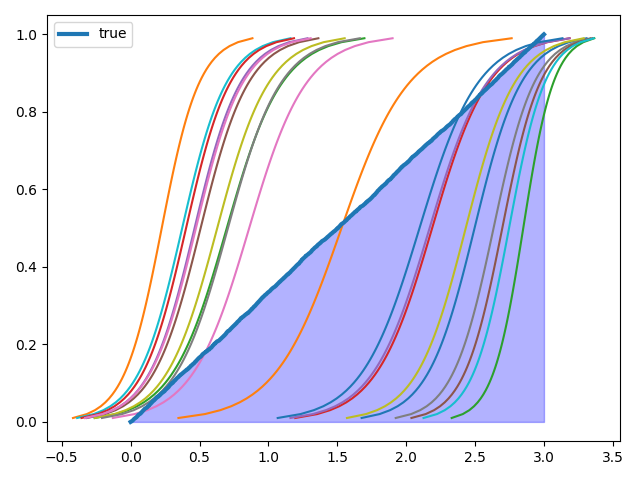
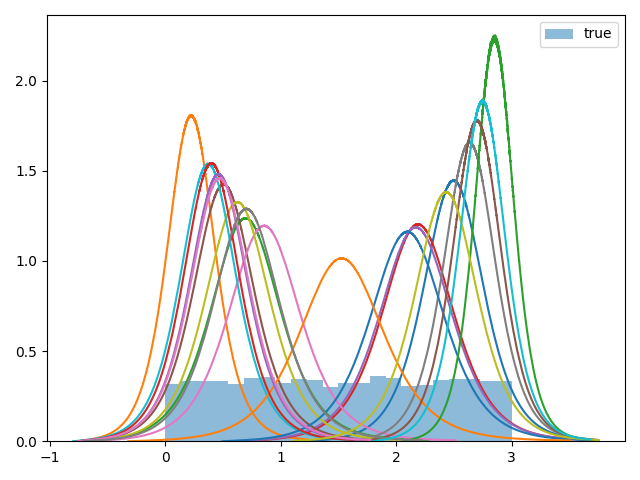
update toyexample

diff --git a/toyexample/main.py b/toyexample/main.py
@@ -16,7 +16,7 @@ def get_args(debug):
                         help='seed for repeatable results')
     parser.add_argument('--dataset', type=str, default='heavytailed', 
                         help='Dataset options: heavytailed, uniform, mixture')
-    parser.add_argument('--model', type=str, default='LSQF', 
+    parser.add_argument('--model', type=str, default='GLD_finite', 
                         help='Model options: Gaussian, GLD_finite, GLD_infinite, LSQF')
     
     parser.add_argument("--latent_dim", default=2, type=int,
@@ -41,7 +41,7 @@ def get_args(debug):
 #%%
 def main():
     #%%
-    config = vars(get_args(debug=True)) # default configuration
+    config = vars(get_args(debug=False)) # default configuration
     config["cuda"] = torch.cuda.is_available()
     device = torch.device('cuda:0') if torch.cuda.is_available() else torch.device('cpu')
     
@@ -201,6 +201,8 @@ def main():
     plt.hist(
         syndata.numpy(), 
         density=True, bins="scott", label=f"synthetic({config['model']})", alpha=0.7)
+    if config["dataset"] == "heavytailed":
+        plt.ylim(0, 0.01)
     plt.legend()
     plt.tight_layout()
     plt.savefig(f"./{asset_dir}/aggregated_{config['dataset']}_{config['model']}.png")
@@ -212,20 +214,18 @@ def main():
             z_ = torch.randn((20, config["latent_dim"]))
             theta1, theta2, theta3, theta4 = model.decode(z_)
 
+        var = stats.multivariate_normal(mean=[0,0], cov=[[1,0],[0,1]])
+        weight = var.pdf(z_.numpy())
+        if config["dataset"] == "uniform":
+            weight = np.ones_like(weight)
+
         for i in range(len(z_)):
             alpha = torch.linspace(0, 1, 1000)[:, None]
             syndata = model.quantile_function(alpha, theta1[[i]], theta2[[i]], theta3[[i]], theta4[[i]])
             dx = syndata[1:] - syndata[0:-1]
-            deriv = np.diff(alpha.numpy().squeeze())/dx.squeeze()
-            plt.plot(syndata.numpy().squeeze()[1:], deriv)
-            
-        plt.plot(
-            np.sort(data.squeeze().numpy()), 
-            np.linspace(0, 1, len(data), endpoint=False), linewidth=3, label="true")
-        plt.fill_between(
-            np.sort(data.squeeze().numpy()), 
-            np.linspace(0, 1, len(data), endpoint=False), 
-            color='blue', alpha=0.3)
+            deriv = np.diff(alpha.numpy().squeeze()) / dx.squeeze()
+            plt.plot(syndata.numpy().squeeze()[1:], weight[i] * deriv)
+        plt.hist(data.numpy(), density=True, bins="scott", alpha=0.5, label="true")
         plt.tight_layout()
         plt.legend()
         plt.savefig(f"./{asset_dir}/latent_{config['dataset']}_{config['model']}.png")
@@ -247,7 +247,7 @@ def main():
         plt.fill_between(
             np.sort(data.squeeze().numpy()), 
             np.linspace(0, 1, len(data), endpoint=False), 
-            color='blue', alpha=0.3)
+            color='blue', alpha=0.1)
         plt.tight_layout()
         plt.savefig(f"./{asset_dir}/latent_{config['dataset']}_{config['model']}.png")
         # plt.show()
@@ -262,6 +262,8 @@ def main():
         
         var = stats.multivariate_normal(mean=[0,0], cov=[[1,0],[0,1]])
         weight = var.pdf(z_.numpy())
+        if config["dataset"] == "uniform":
+            weight = np.ones_like(weight)
         mu = xhat.numpy()
         sigma = np.ones((len(z_), 1)) * np.sqrt(beta_)
         # sigma = logsigma.exp().sqrt().numpy()
